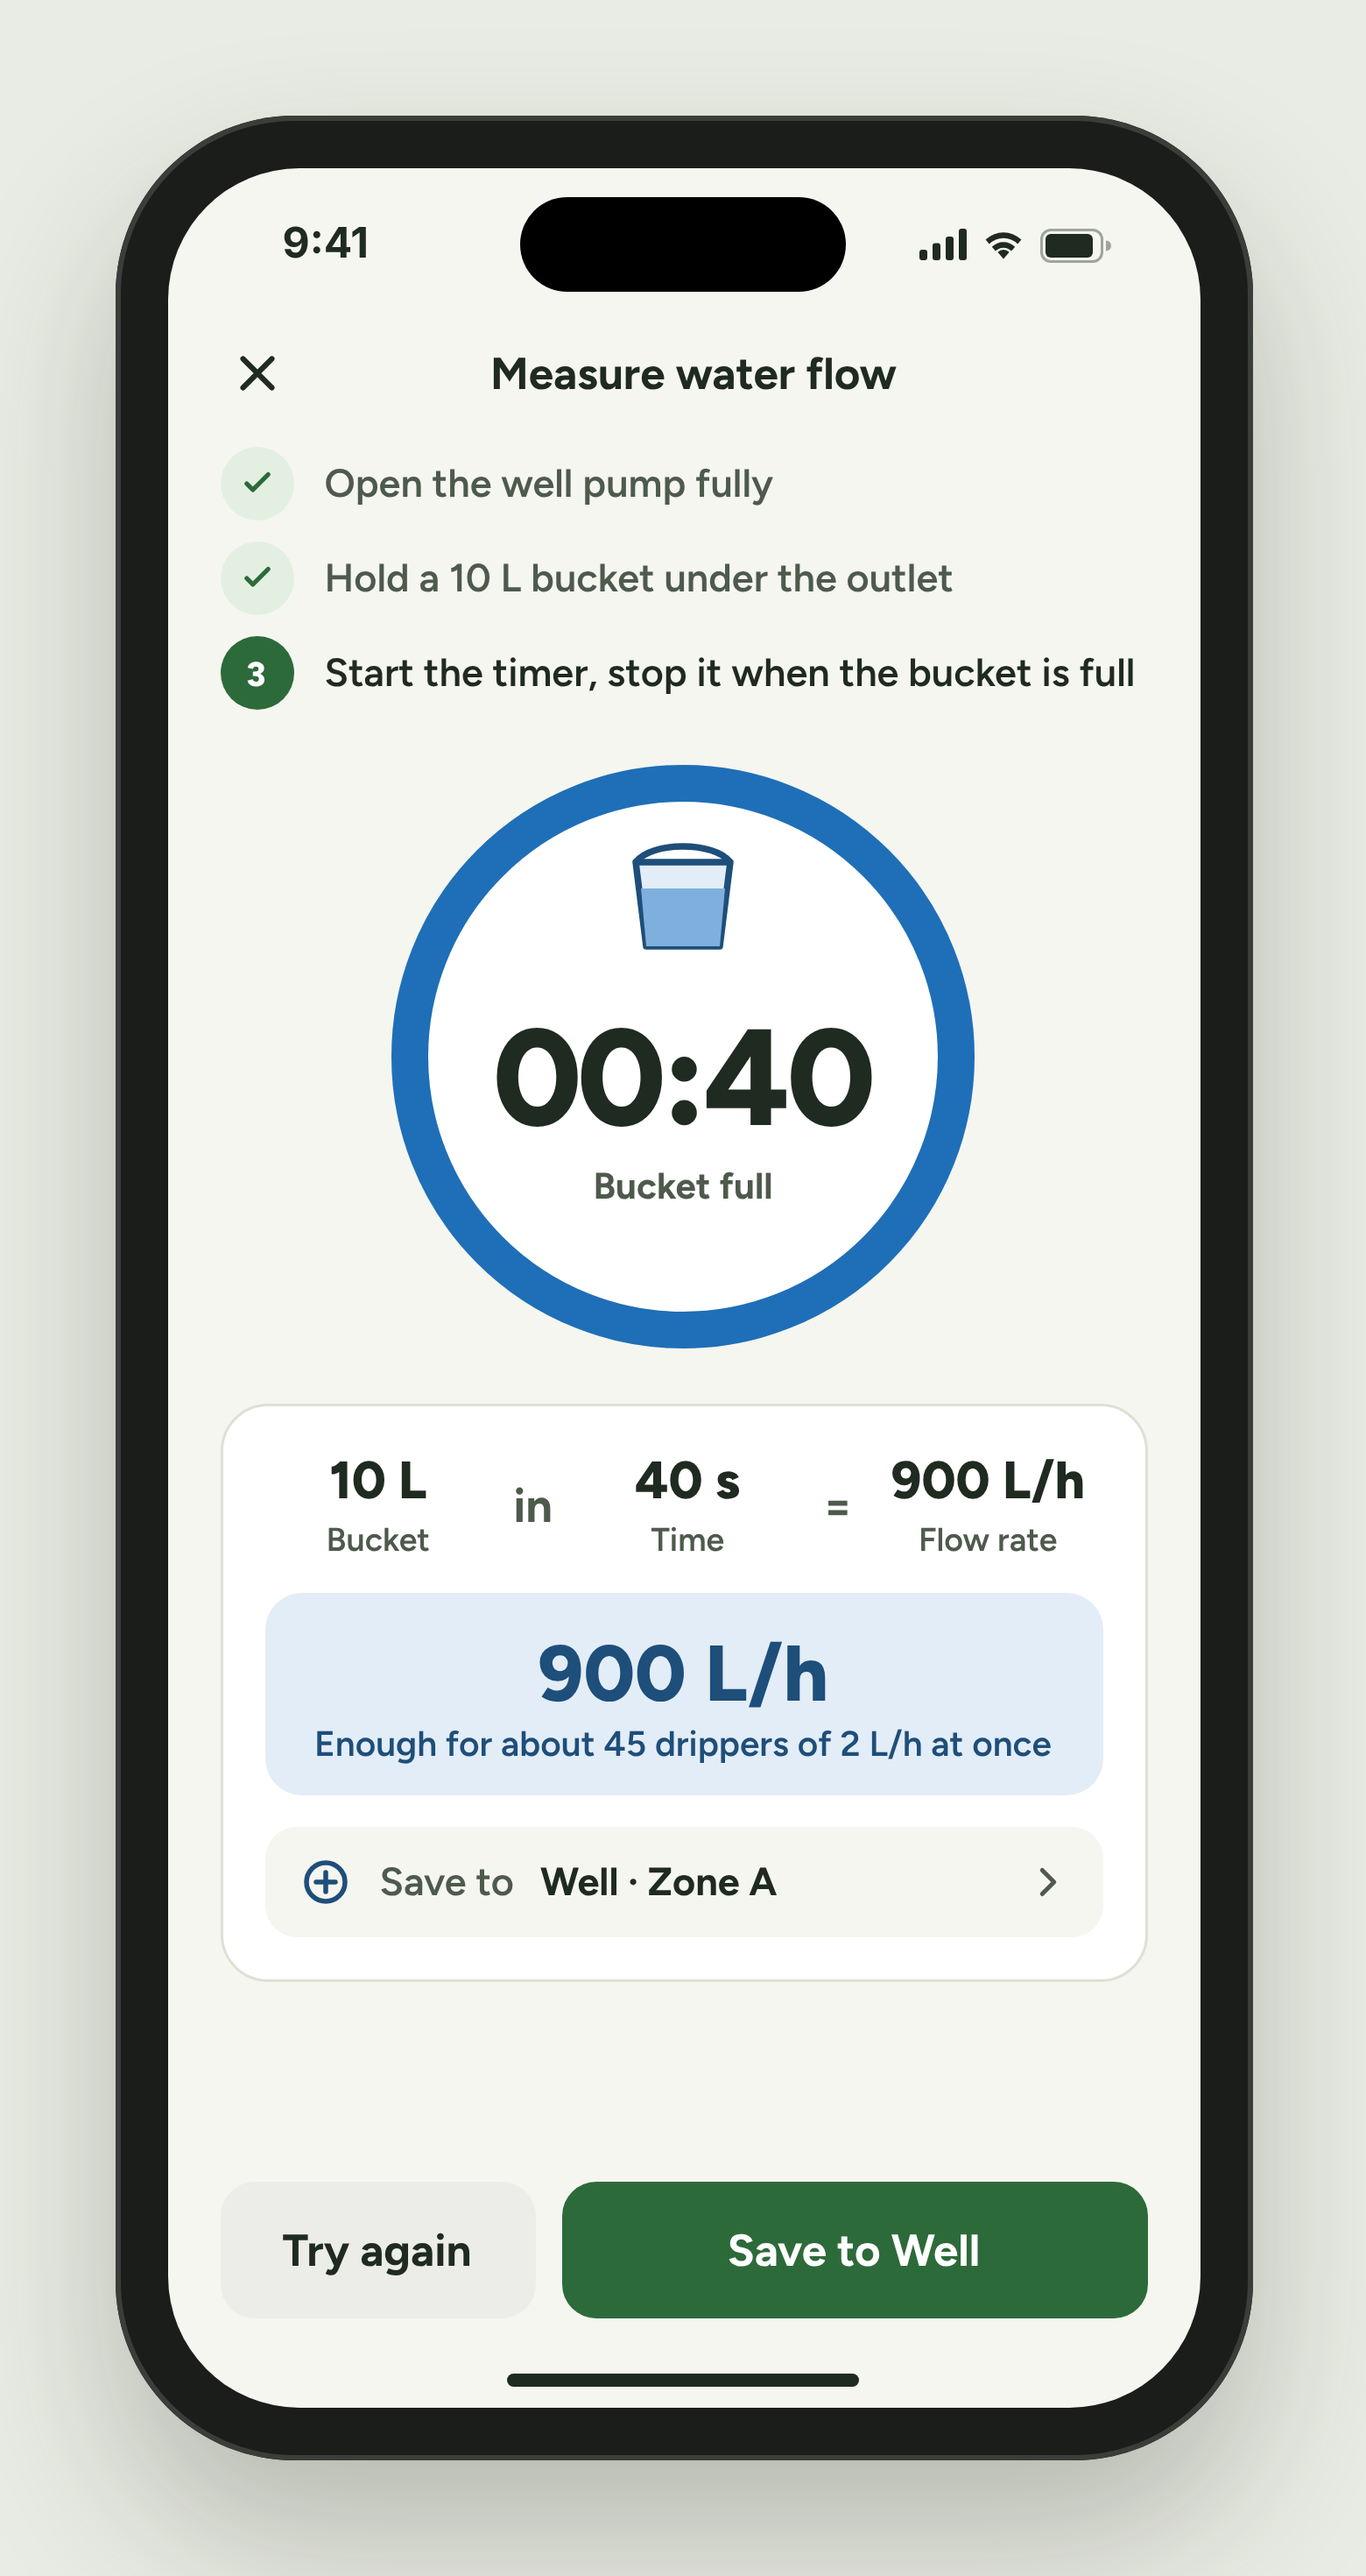
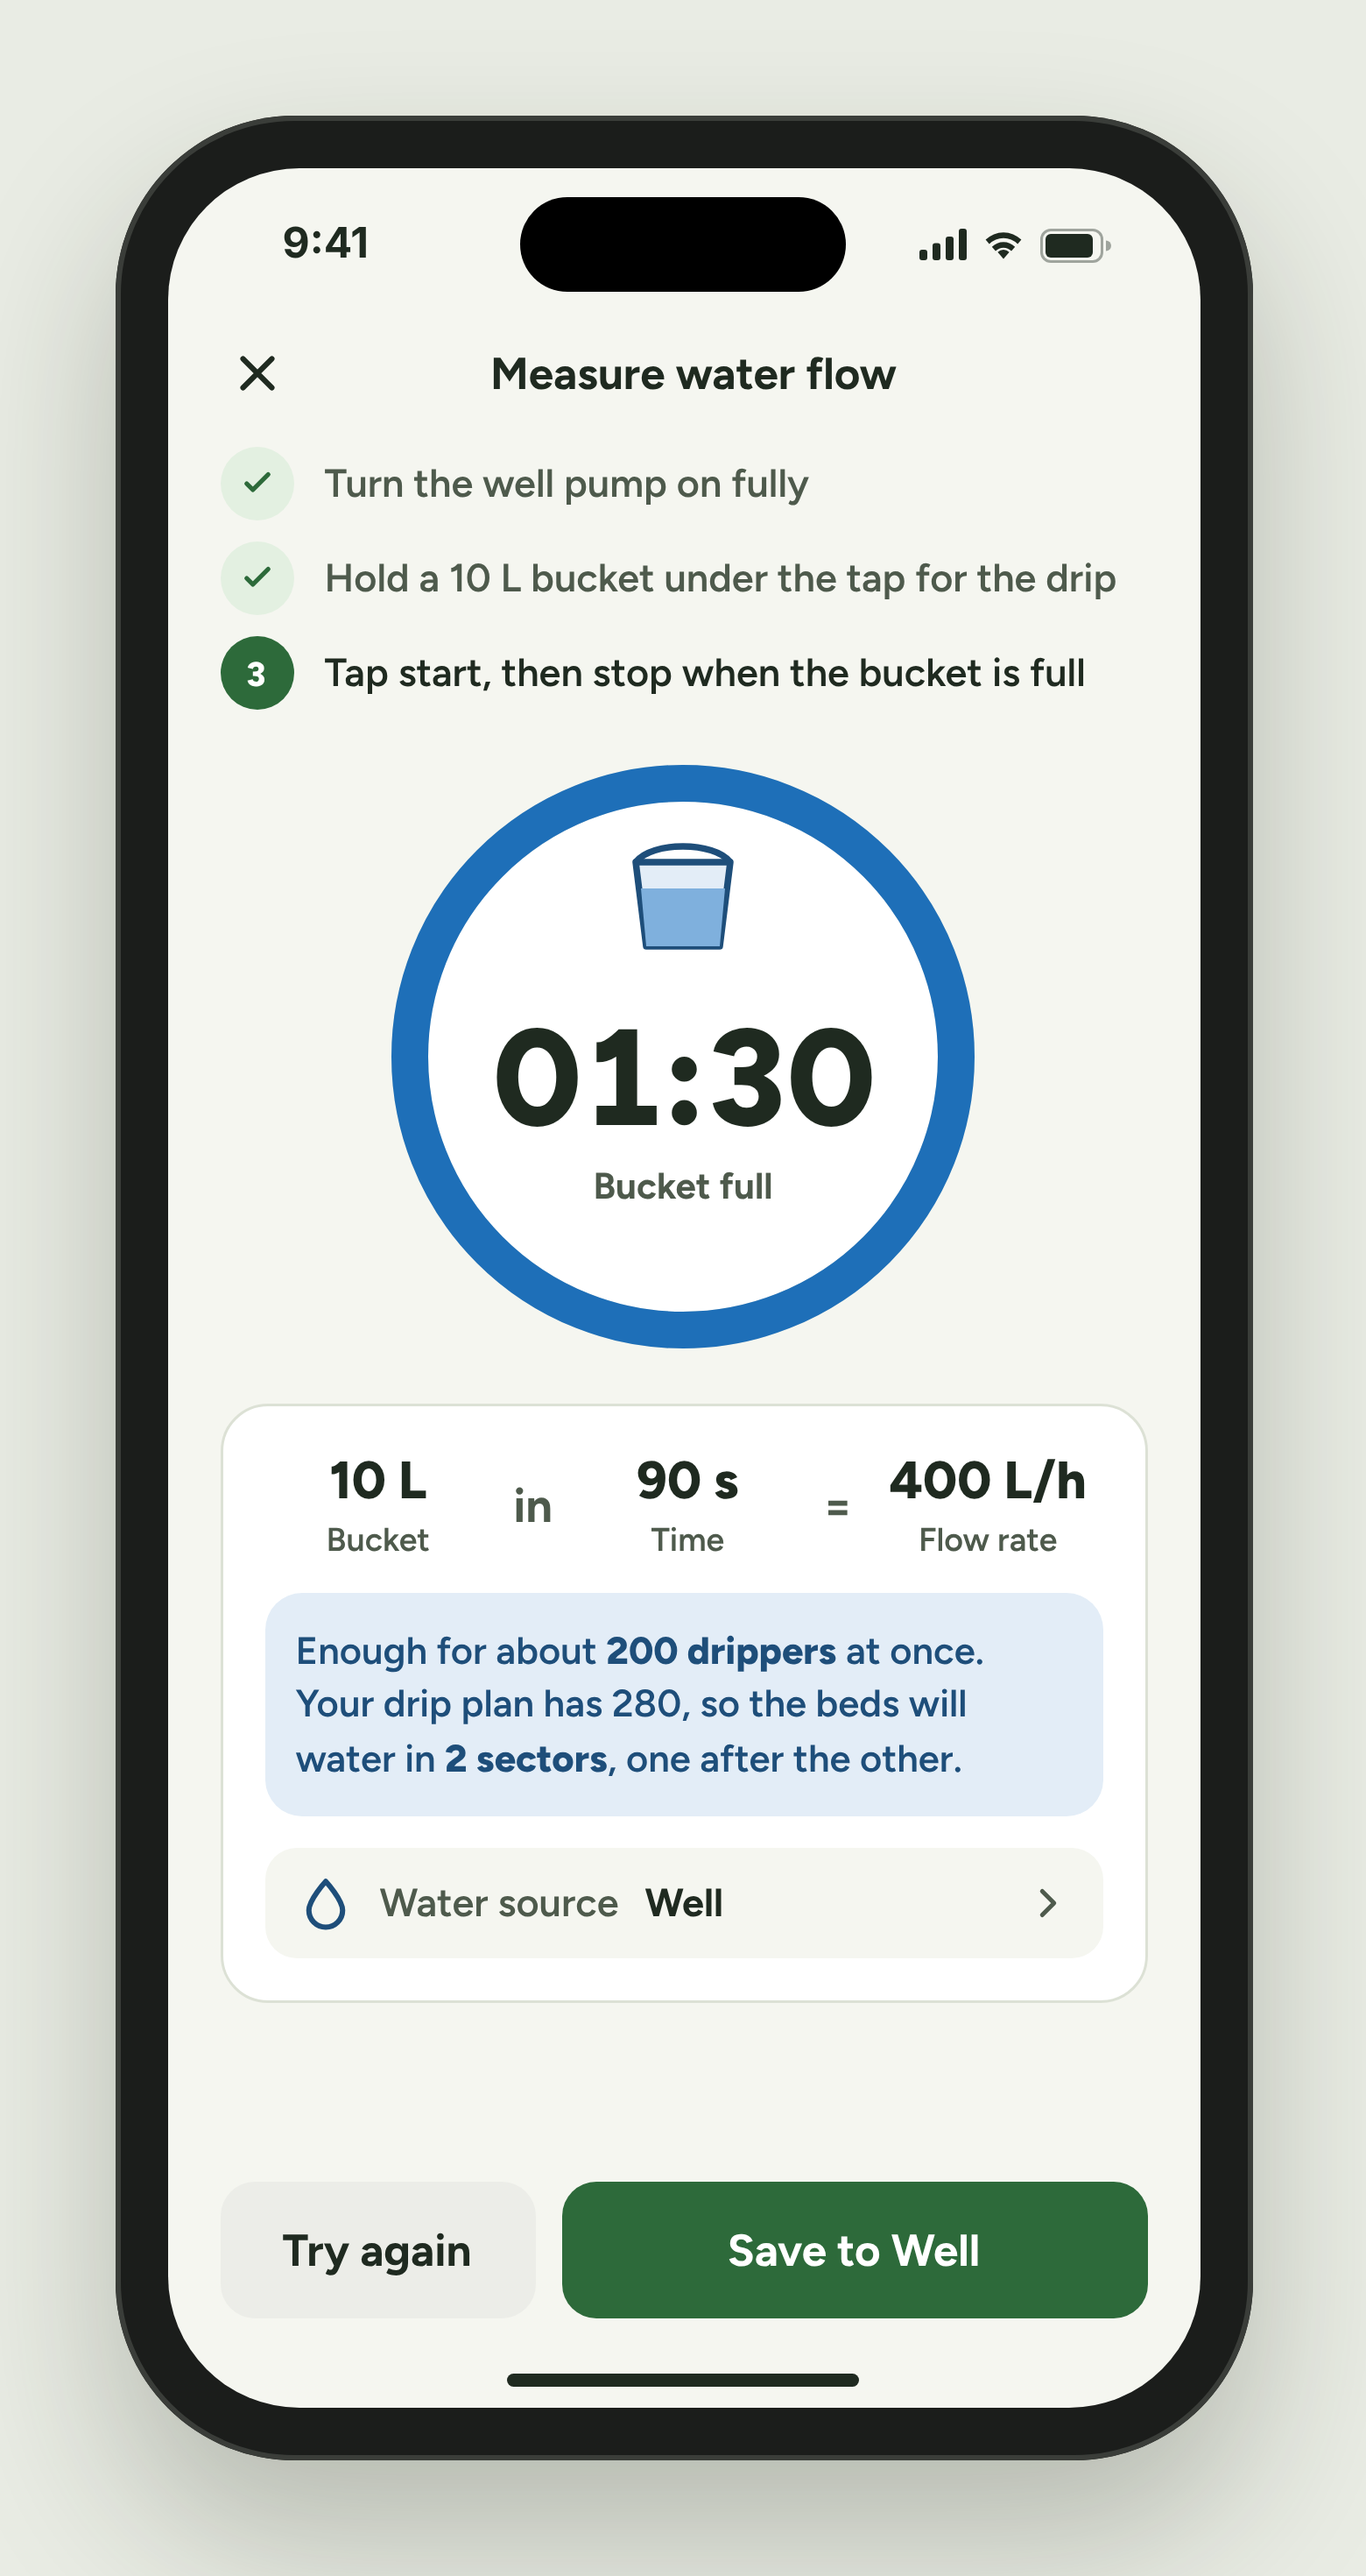
Design C8 bucket test: numbers match C6 (400 L/h), result explains the sectors, water source row
Claude-Session: https://claude.ai/code/session_015NynAjU4naPZwzmeuGazot

diff --git a/design/source/C8-bucket-test.html b/design/source/C8-bucket-test.html
@@ -53,9 +53,9 @@
 
   <div class="content">
     <div class="steps">
-      <div class="st done"><span class="n"><svg width="14" height="14" viewBox="0 0 24 24" fill="none" stroke="#2D6A3A" stroke-width="3" stroke-linecap="round" stroke-linejoin="round"><path d="M5 12l4 4 10-10"/></svg></span>Open the well pump fully</div>
-      <div class="st done"><span class="n"><svg width="14" height="14" viewBox="0 0 24 24" fill="none" stroke="#2D6A3A" stroke-width="3" stroke-linecap="round" stroke-linejoin="round"><path d="M5 12l4 4 10-10"/></svg></span>Hold a 10 L bucket under the outlet</div>
-      <div class="st now"><span class="n">3</span>Start the timer, stop it when the bucket is full</div>
+      <div class="st done"><span class="n"><svg width="14" height="14" viewBox="0 0 24 24" fill="none" stroke="#2D6A3A" stroke-width="3" stroke-linecap="round" stroke-linejoin="round"><path d="M5 12l4 4 10-10"/></svg></span>Turn the well pump on fully</div>
+      <div class="st done"><span class="n"><svg width="14" height="14" viewBox="0 0 24 24" fill="none" stroke="#2D6A3A" stroke-width="3" stroke-linecap="round" stroke-linejoin="round"><path d="M5 12l4 4 10-10"/></svg></span>Hold a 10 L bucket under the tap for the drip</div>
+      <div class="st now"><span class="n">3</span>Tap start, then stop when the bucket is full</div>
     </div>
 
     <div class="timerwrap">
@@ -68,19 +68,19 @@
           <path d="M4 8 C 10 0, 34 0, 40 8" fill="none" stroke="#1E4E7A" stroke-width="2.5"/>
         </g>
       </svg>
-      <div class="timertext"><b style="margin-top: 34px">00:40</b><span>Bucket full</span></div>
+      <div class="timertext"><b style="margin-top: 34px">01:30</b><span>Bucket full</span></div>
     </div>
 
     <div class="result">
       <div class="eq">
         <div><b>10 L</b><span>Bucket</span></div><i>in</i>
-        <div><b>40 s</b><span>Time</span></div><i>=</i>
-        <div><b>900 L/h</b><span>Flow rate</span></div>
+        <div><b>90 s</b><span>Time</span></div><i>=</i>
+        <div><b>400 L/h</b><span>Flow rate</span></div>
       </div>
-      <div class="big"><b>900 L/h</b><span>Enough for about 45 drippers of 2 L/h at once</span></div>
+      <div class="big" style="text-align: left"><span style="font-size: 14.5px; line-height: 1.4">Enough for about <b style="font-size: 14.5px">200 drippers</b> at once. Your drip plan has 280, so the beds will water in <b style="font-size: 14.5px">2 sectors</b>, one after the other.</span></div>
       <div class="saveto">
-        <svg width="22" height="22" viewBox="0 0 24 24" fill="none" stroke="#1E4E7A" stroke-width="2" stroke-linecap="round" stroke-linejoin="round"><circle cx="12" cy="12" r="8"/><path d="M8 12h8M12 8v8"/></svg>
-        <span class="l">Save to</span><span style="flex: 1">Well · Zone A</span>
+        <svg width="22" height="22" viewBox="0 0 24 24" fill="none" stroke="#1E4E7A" stroke-width="2.2" stroke-linecap="round" stroke-linejoin="round"><path d="M12 3s7 7.6 7 12a7 7 0 0 1-14 0c0-4.4 7-12 7-12z"/></svg>
+        <span class="l">Water source</span><span style="flex: 1">Well</span>
         <svg width="18" height="18" viewBox="0 0 24 24" fill="none" stroke="#4E5A4C" stroke-width="2.2" stroke-linecap="round" stroke-linejoin="round"><path d="M9 6l6 6-6 6"/></svg>
       </div>
     </div>
